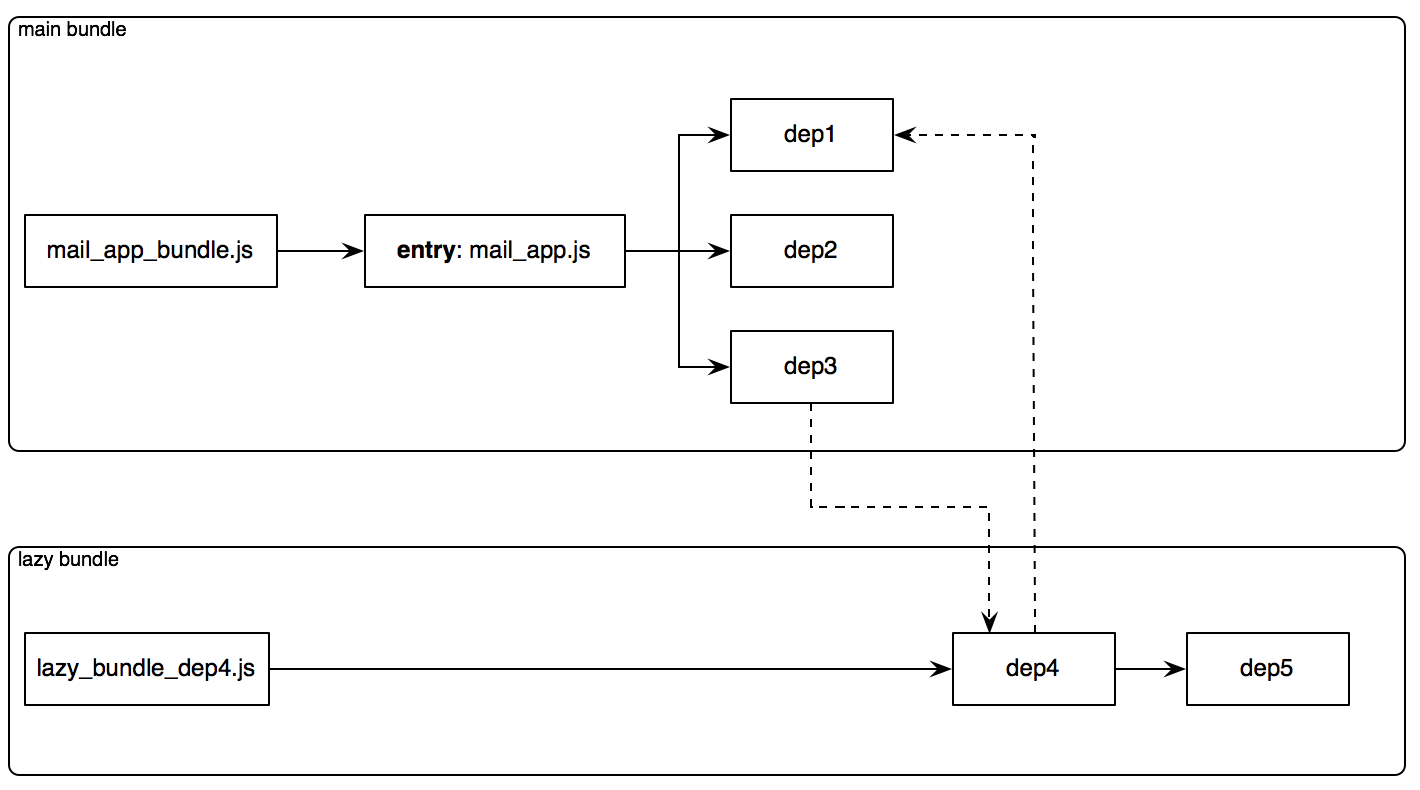
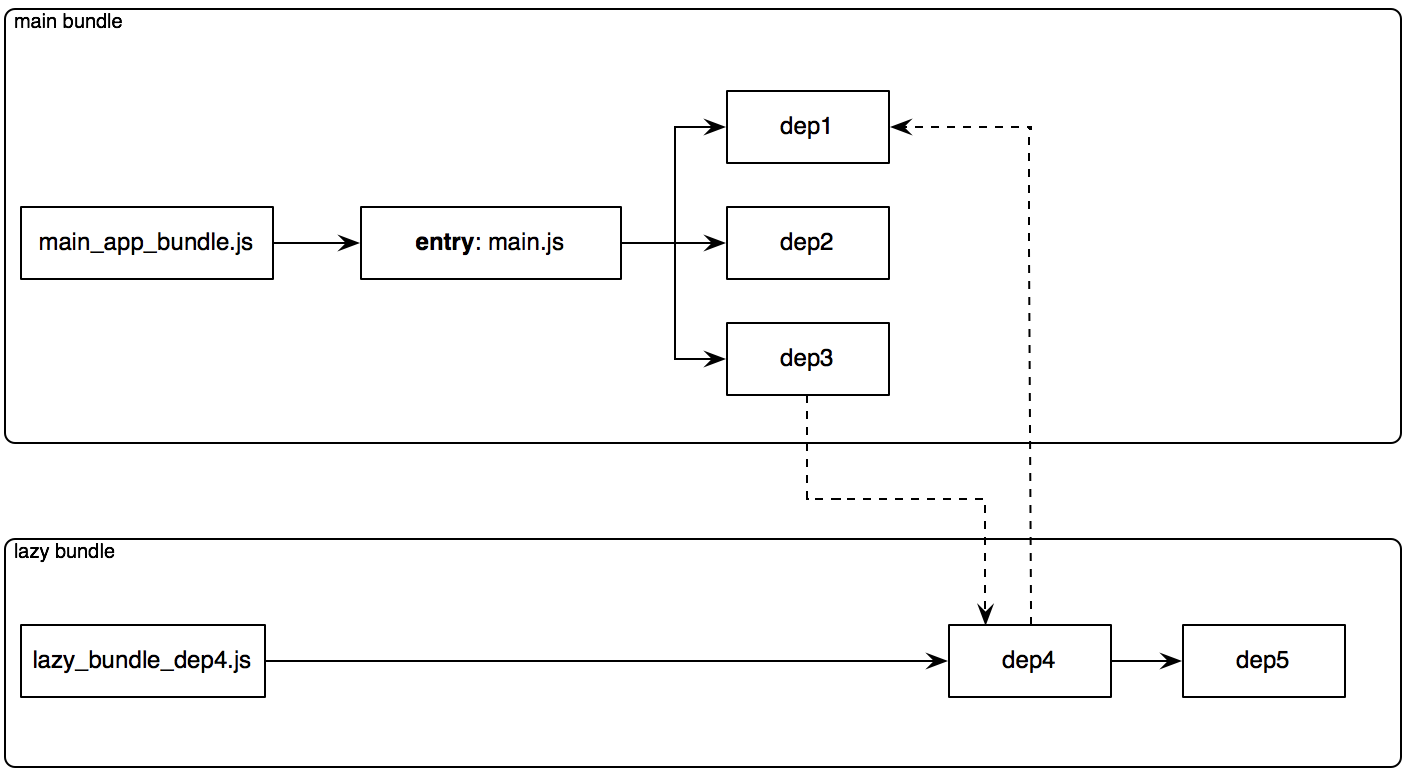
Update the readme doc and add pre-commit pkg

diff --git a/README.md b/README.md
@@ -1,6 +1,8 @@
 # extractify
 Browserify plugin to extract code to be lazy or on-demand loaded into separate bundles aka code-splitting.
 
+[![build status](https://secure.travis-ci.org/yahoo/extractify.png)](https://travis-ci.org/yahoo/extractify)
+
 ### install
 ```
 npm install extractify
@@ -11,9 +13,9 @@ Following diagram summarizes how extractify works:
 
 ![alt tag](diagram.png)
 
-1. `dep4` module in above diagram is determined to be loaded as on-demand and should be stripped from the main bundle `main_app.js`.
+1. `dep4` module in above diagram is determined to be loaded as on-demand and should be stripped from the main bundle `main.js`.
 2. Therefore it will have its own stripped bundle, `lazy_bundle_dep4.js` which will be loaded later.
-3. The stripped bundle will also include the modules what `only` `dep4` depends on. In this case `dep5` is only used by `dep4`. `dep1` module, on the other hand, is included in main bundle since it was already used by main_app.js.
+3. The stripped bundle will also include the modules what `only` `dep4` depends on. In this case `dep5` is only used by `dep4`. On the other hand, `dep1` module is included in `main_app_bundle.js` since it was already used by main.js.
 4. Optionally a map object which holds defer loaded module name and bundle name key value pairs can be injected into main entry or different `.json` config file soft or hard. See `bundleMapOption` options below
 
 
@@ -77,10 +79,7 @@ b.bundle().pipe(fs.createWriteStream('./bundles/main_app.js'))
 
 ### events
 #### b.on('lazyWritten', function (outfile) {})
-Emits right after the splitted bundle written into the file system
-```
-  outfile: name of the extracted bundle
-```
+Emits with lazy bundle `outfile` right after the splitted bundle written into the file system
 
 #### b.on('lazyStream', function (stream) {})
 Each splitted bundles will emits `stream` before written into filesystem.
